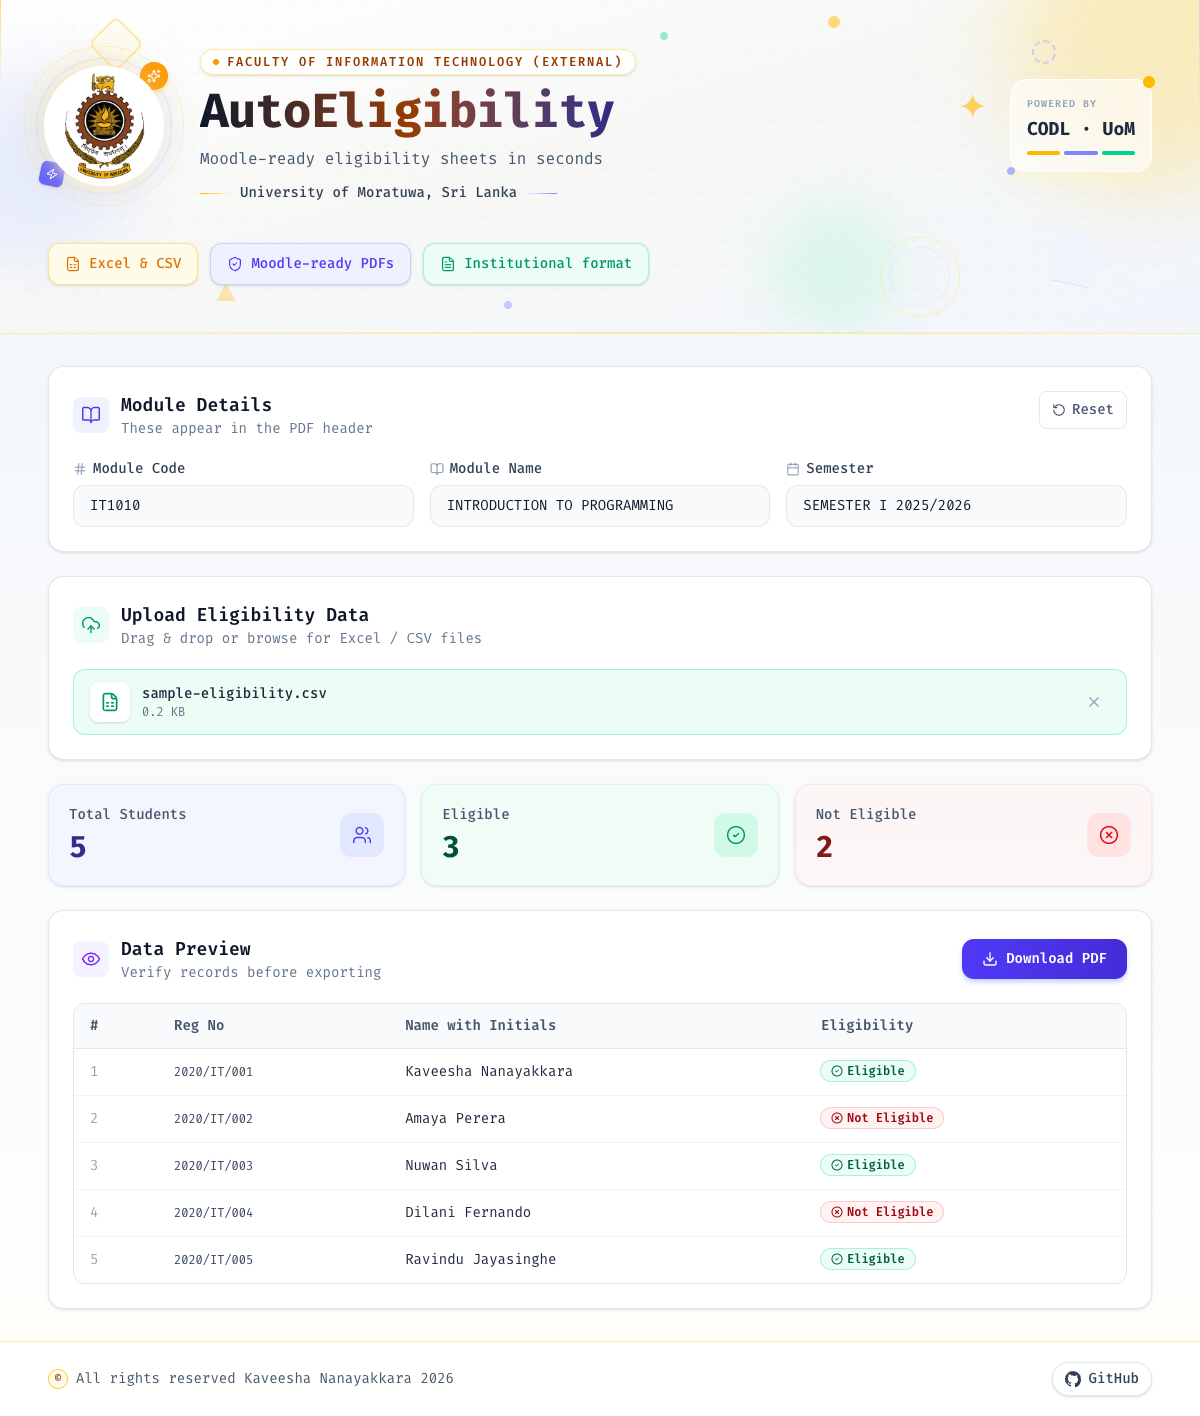
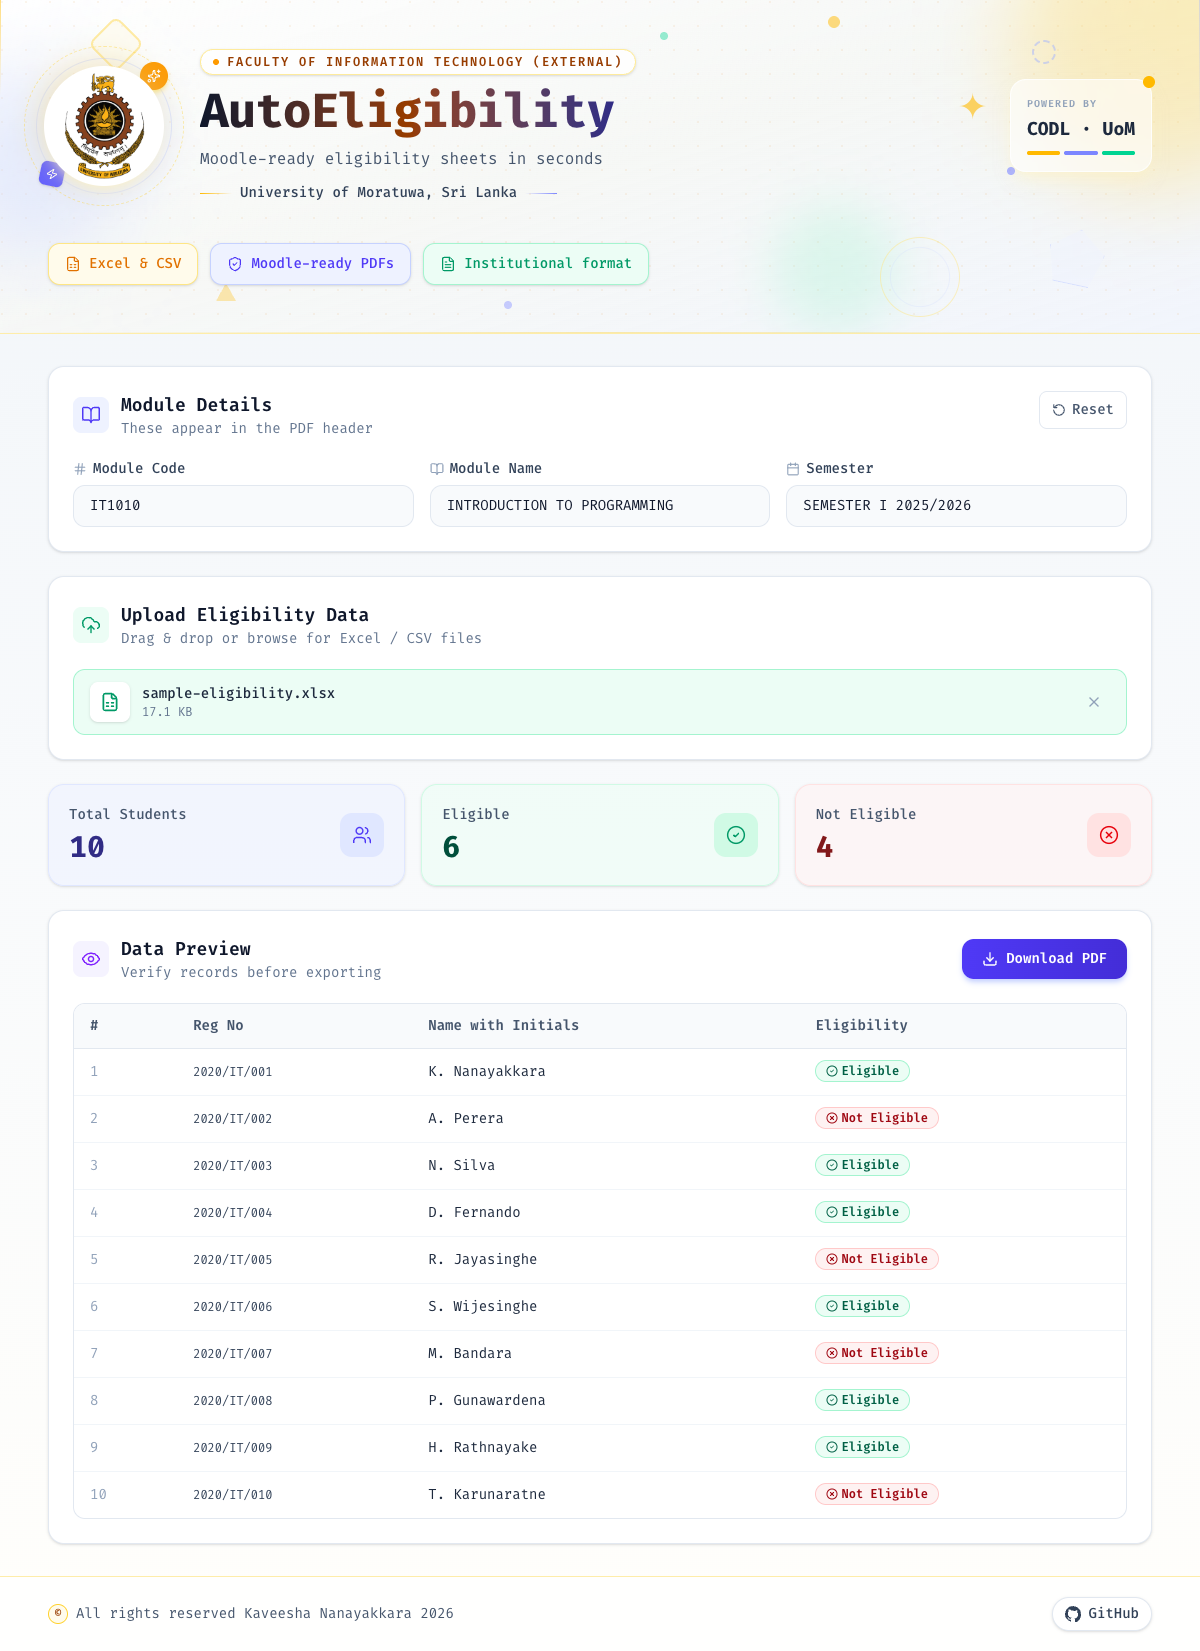
Add a sample Excel sheet and show the full student list in the README.

diff --git a/README.md b/README.md
@@ -8,9 +8,17 @@ Developed under **CODL · UoM**.
 
 **Open the site:** [https://kaveesl.github.io/AutoEligibility/](https://kaveesl.github.io/AutoEligibility/)
 
-Screenshots and a step-by-step walkthrough are in the [user guide](docs/USER_GUIDE.md).
+A separate step-by-step walkthrough is in the [user guide](docs/USER_GUIDE.md). The screenshots below are the full page, including every student row and the summary counts.
 
-![AutoEligibility home page](docs/images/01-home.png)
+![AutoEligibility home page before a file is uploaded](docs/images/01-home.png)
+
+The next screenshot uses `public/sample-eligibility.xlsx` for module **IT1010**, **Introduction to Programming**, **Semester I 2025/2026**.
+
+| Total Students | Eligible | Not Eligible |
+| --- | ---: | ---: |
+| 10 | 6 | 4 |
+
+![Uploaded sample workbook with all 10 students and the eligibility counts](docs/images/02-preview.png)
 
 ---
 
@@ -93,11 +101,26 @@ Hyphens in eligibility values are normalised automatically.
 
 ### Sample file
 
-A sample CSV is included at:
+A dummy Excel workbook is included at:
 
 ```
-public/sample-eligibility.csv
+public/sample-eligibility.xlsx
 ```
+
+| Index No | Name with Initials | Eligibility |
+| --- | --- | --- |
+| 2020/IT/001 | K. Nanayakkara | Eligible |
+| 2020/IT/002 | A. Perera | Not Eligible |
+| 2020/IT/003 | N. Silva | Eligible |
+| 2020/IT/004 | D. Fernando | Eligible |
+| 2020/IT/005 | R. Jayasinghe | Not Eligible |
+| 2020/IT/006 | S. Wijesinghe | Eligible |
+| 2020/IT/007 | M. Bandara | Not Eligible |
+| 2020/IT/008 | P. Gunawardena | Eligible |
+| 2020/IT/009 | H. Rathnayake | Eligible |
+| 2020/IT/010 | T. Karunaratne | Not Eligible |
+
+A smaller CSV sample is also at `public/sample-eligibility.csv`.
 
 ---
 
@@ -197,7 +220,8 @@ Heavy libraries (`xlsx`, `jspdf`) are **lazy-loaded** — they only download whe
 AutoEligibility/
 ├── public/
 │   ├── favicon.svg
-│   └── sample-eligibility.csv
+│   ├── sample-eligibility.csv
+│   └── sample-eligibility.xlsx
 ├── src/
 │   ├── components/
 │   │   ├── Header.jsx          # App header & branding

diff --git a/docs/USER_GUIDE.md b/docs/USER_GUIDE.md
@@ -20,7 +20,7 @@ After you fill in the module and upload a spreadsheet, the page shows the studen
 
 ![Filled module details, an uploaded sample file, summary counts, and the data preview](images/02-preview.png)
 
-The sample file in that screenshot has **5** students: **3** eligible and **2** not eligible.
+The sample workbook in that screenshot, `public/sample-eligibility.xlsx`, has **10** students: **6** eligible and **4** not eligible.
 
 ---
 
@@ -58,7 +58,7 @@ The file needs three columns. Header names can vary. AutoEligibility matches sim
 
 Eligibility values are not case-sensitive. Hyphens are treated as spaces, so `not-eligible` and `Not Eligible` both become **Not Eligible**.
 
-A sample file is included in the repository:
+The screenshot above uses the Excel sample at `public/sample-eligibility.xlsx`. A smaller CSV is also included at:
 
 ```text
 public/sample-eligibility.csv
